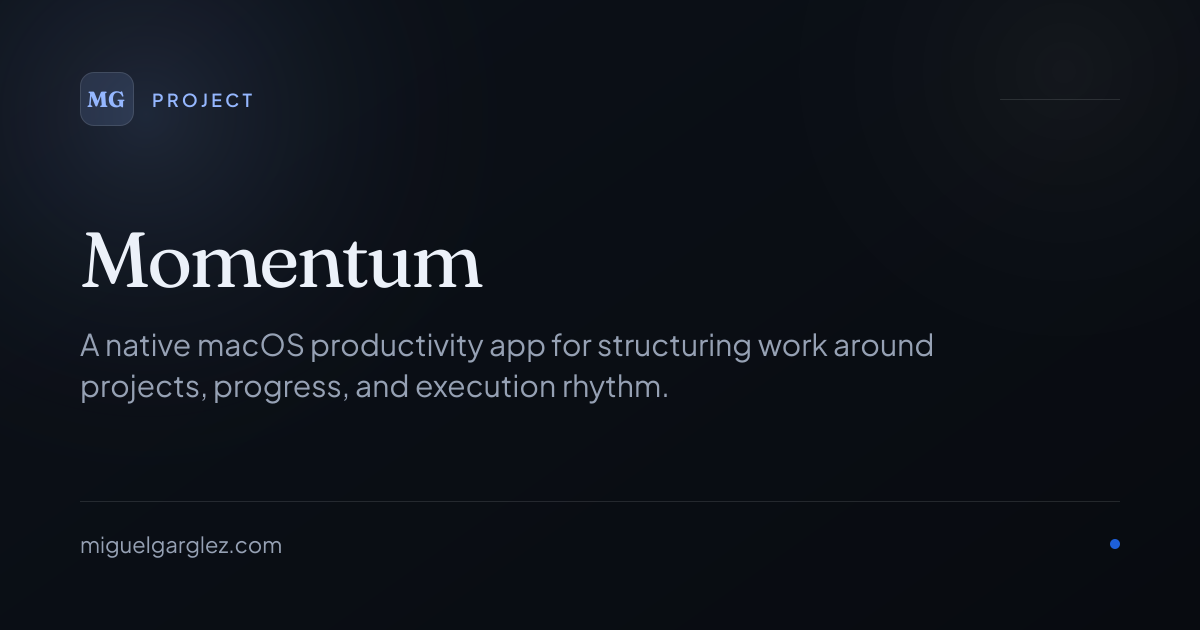
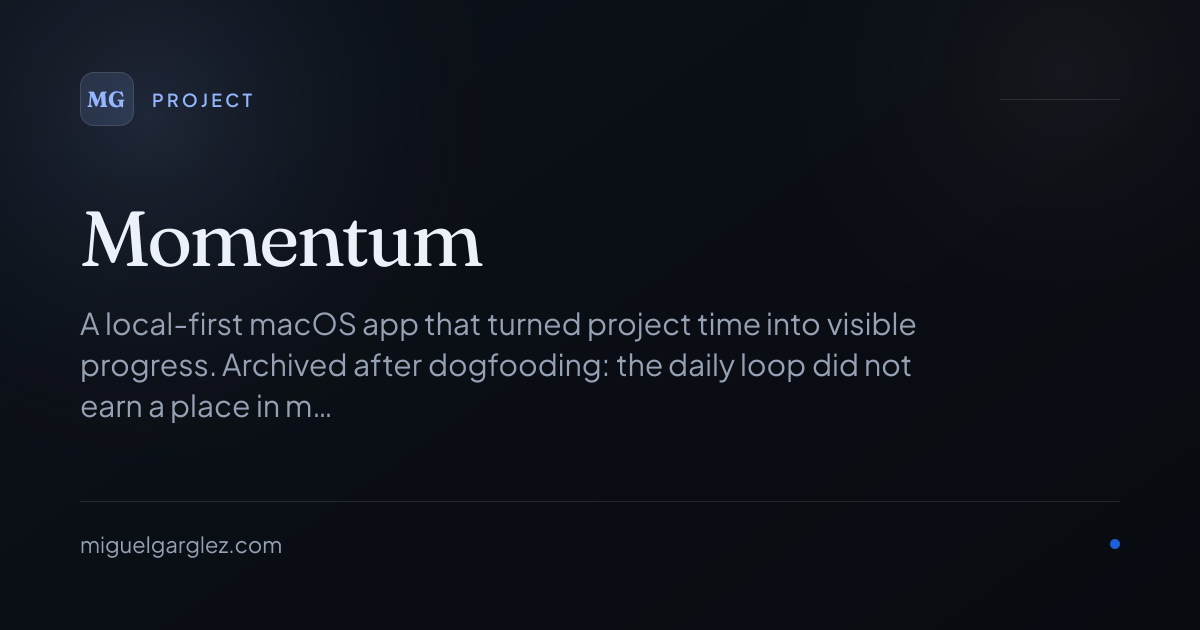
chore(projects): archive Momentum and add product screenshots
Stop featuring it as a live product, point the case study at the local detail page, and reuse landing captures in the gallery.

Changed region(s): [[0.0617, 0.4825, 0.7708, 0.6635], [0.0617, 0.3317, 0.4008, 0.4524]]

diff --git a/src/data/projects.ts b/src/data/projects.ts
@@ -309,40 +309,57 @@ export const projects: Project[] = [
     slug: "momentum",
     title: "momentum",
     displayName: "Momentum",
-    href: "https://momentum-macos.vercel.app",
-    external: true,
+    href: "/projects/momentum/",
     description:
-      "Native macOS productivity app focused on building and keeping momentum in daily work.",
-    sub: "Landing is published separately and the full app source is available in its public repository.",
+      "Native macOS menu-bar app for tracking time on personal projects. Archived after personal use didn't stick.",
+    sub: "Source remains public as a case study. The product landing is down.",
     links: [
-      {
-        label: "Live landing",
-        href: "https://momentum-macos.vercel.app",
-        external: true,
-      },
       {
         label: "GitHub",
         href: "https://github.com/miguelgarglez/momentum",
         external: true,
       },
     ],
-    stack: ["Swift", "SwiftUI", "macOS", "Astro Landing"],
-    status: "Active",
+    stack: ["Swift", "SwiftUI", "macOS"],
+    status: "Archived",
     year: 2026,
     category: "native-app",
-    stage: "active",
-    featured: true,
+    stage: "archived",
+    featured: false,
     role: "Native app engineer",
     summary:
-      "A native macOS productivity app for structuring work around projects, progress, and execution rhythm.",
+      "A local-first macOS app that turned project time into visible progress. Archived after dogfooding: the daily loop did not earn a place in my week.",
     capabilities: [
-      "Project-oriented work tracking",
-      "Native macOS interaction model",
-      "Low-friction daily capture",
-      "Dedicated product landing page",
+      "Menu-bar first native macOS UI",
+      "Local-first project time tracking",
+      "SwiftUI and SwiftData",
+      "macOS release packaging",
+    ],
+    sections: [
+      {
+        title: "Status",
+        body: "Paused. I built this to use it, then stopped. The screenshots below are from the last product landing. The repository stays public as a reference, not as something I am shipping.",
+      },
+    ],
+    images: [
+      {
+        src: "/projects/momentum/dashboard.webp",
+        alt: "Momentum dashboard with project sidebar, summary cards, and monthly chart",
+      },
+      {
+        src: "/projects/momentum/project-detail.webp",
+        alt: "Project detail with cumulative stats, streak, and monthly bar chart",
+      },
+      {
+        src: "/projects/momentum/project-editor.webp",
+        alt: "Project editor modal for identity, apps, and domains",
+      },
+      {
+        src: "/projects/momentum/status-menu.webp",
+        alt: "macOS menu bar status menu for Momentum",
+      },
     ],
     repositoryUrl: "https://github.com/miguelgarglez/momentum",
-    liveUrl: "https://momentum-macos.vercel.app",
     caseStudyUrl: projectDetailPath("momentum"),
   },
 ];

diff --git a/chat-worker/src/knowledge/projects.ts b/chat-worker/src/knowledge/projects.ts
@@ -88,17 +88,19 @@ export const projects: ProjectBlock[] = [
     id: 'momentum',
     title: 'momentum',
     shortSummary:
-      'Native macOS productivity app focused on building and keeping momentum in daily work.',
+      'Archived native macOS menu-bar app for project time tracking. Miguel stopped using it; the source stays public as a case study.',
+    problem:
+      'Side projects needed visible progress, but automatic app/domain tracking was fragile and the daily loop did not stick.',
     solution:
-      'Published with a separate landing page and a public app repository.',
-    technologies: ['Swift', 'SwiftUI', 'macOS', 'Astro Landing'],
+      'Swift/SwiftUI, local-first, menu-bar first. The product landing was taken down; the repository remains as reference.',
+    technologies: ['Swift', 'SwiftUI', 'macOS'],
     links: {
-      demo: 'https://momentum-macos.vercel.app',
+      article: 'https://miguelgarglez.com/projects/momentum/',
       repo: 'https://github.com/miguelgarglez/momentum',
     },
-    tags: ['macos', 'swiftui', 'productivity', 'product', 'frontend'],
+    tags: ['macos', 'swiftui', 'archived', 'native-app'],
     visibility: 'public',
-    priority: 72,
+    priority: 28,
   },
   {
     id: 'genai-intensive-capstone',

diff --git a/README.md b/README.md
@@ -61,11 +61,11 @@ My digital CV with chat.
 <div style="border: 1px solid #d0d7de; border-radius: 6px; padding: 16px; margin: 16px 0;">
 
 ### **momentum**
-Native macOS productivity app to help sustain execution rhythm and focus.
+Native macOS menu-bar app for project time tracking. Archived after personal use didn't stick.
 
-**Links:** [Live landing](https://momentum-macos.vercel.app) · [GitHub repository](https://github.com/miguelgarglez/momentum)  
-**Status:** ✅ Active  
-**Technologies:** ![Swift](https://img.shields.io/badge/-Swift-FA7343?style=flat-square&logo=swift&logoColor=white) ![SwiftUI](https://img.shields.io/badge/-SwiftUI-0A84FF?style=flat-square&logo=swift&logoColor=white) ![macOS](https://img.shields.io/badge/-macOS-000000?style=flat-square&logo=apple&logoColor=white) ![Astro](https://img.shields.io/badge/-Astro-FF5D01?style=flat-square&logo=astro&logoColor=white)
+**Links:** [Project details](https://miguelgarglez.com/projects/momentum/) · [GitHub repository](https://github.com/miguelgarglez/momentum)  
+**Status:** 📦 Archived  
+**Technologies:** ![Swift](https://img.shields.io/badge/-Swift-FA7343?style=flat-square&logo=swift&logoColor=white) ![SwiftUI](https://img.shields.io/badge/-SwiftUI-0A84FF?style=flat-square&logo=swift&logoColor=white) ![macOS](https://img.shields.io/badge/-macOS-000000?style=flat-square&logo=apple&logoColor=white)
 
 </div>
 
